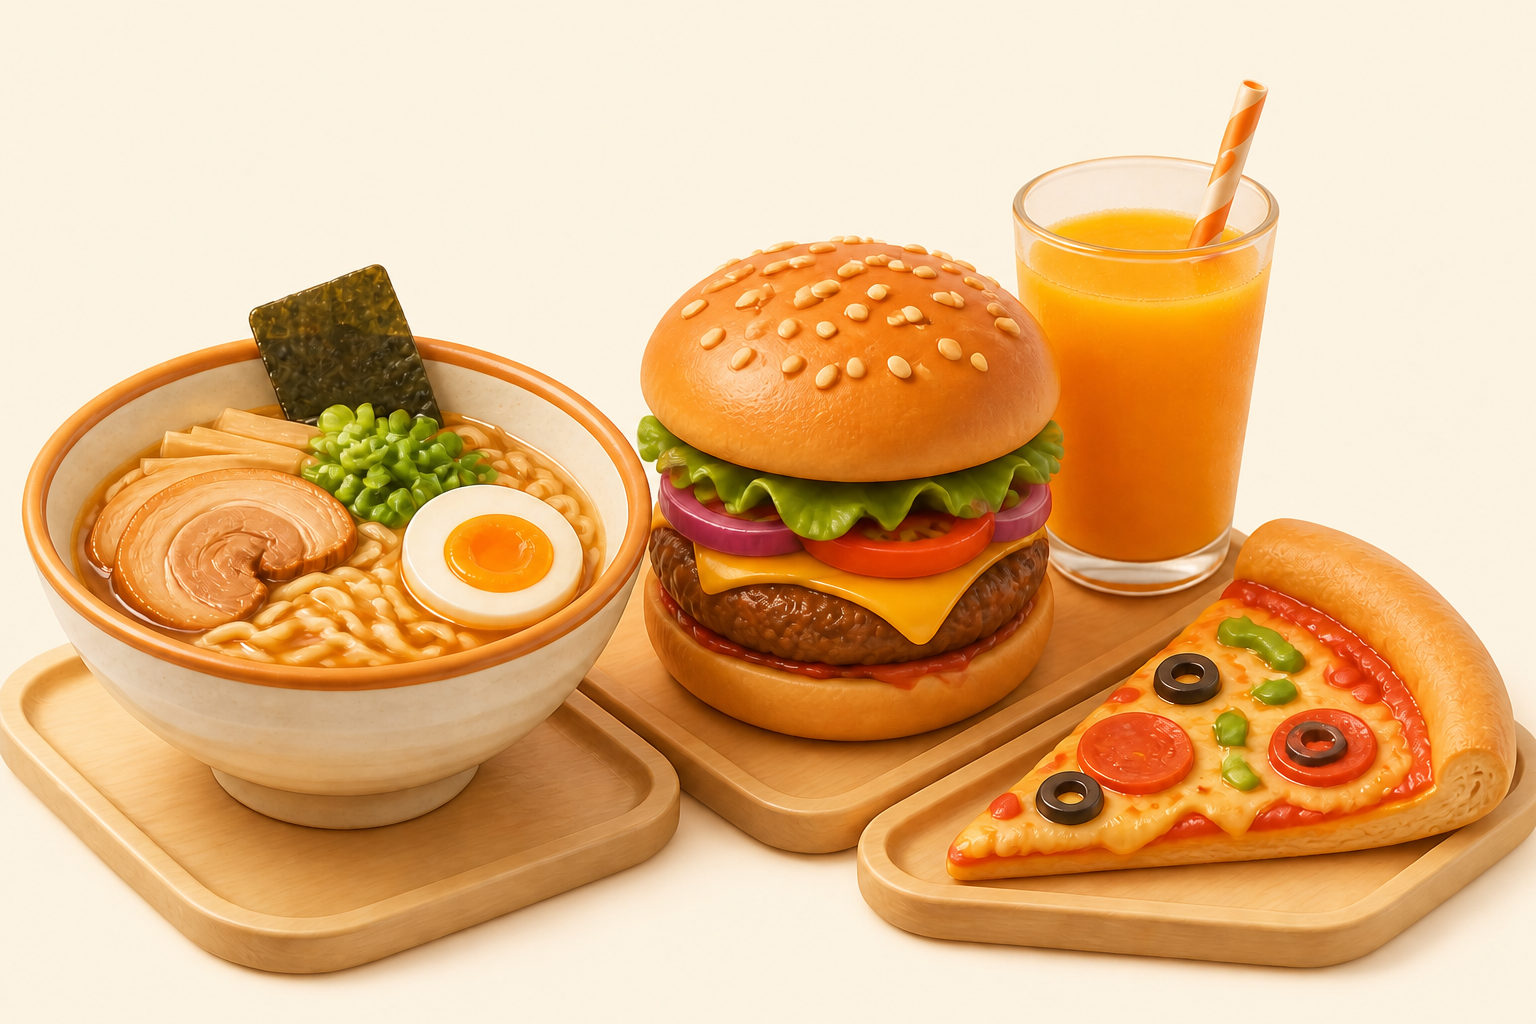
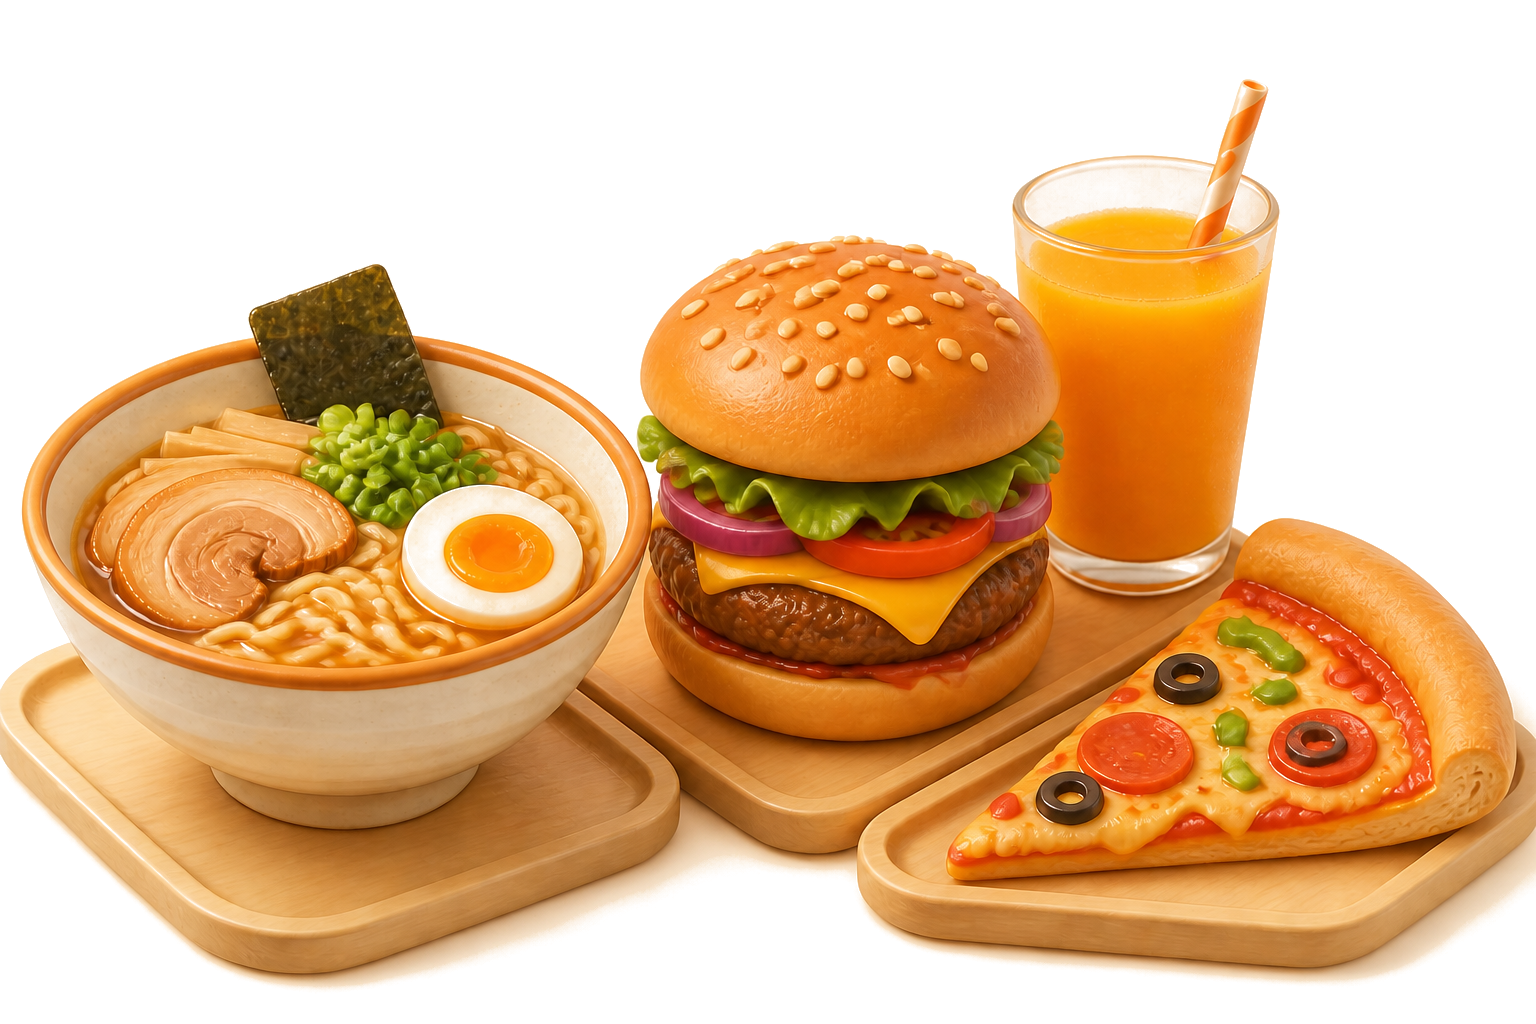
Refresh Couju presentation, data lifecycle, and documentation

diff --git a/app/globals.css b/app/globals.css
@@ -168,4 +168,4 @@ button:disabled{cursor:not-allowed;opacity:.55}
 .room-page .public-constraint{max-width:920px;background:transparent;box-shadow:none;border:0;padding:10px 4px}
 .room-page .public-constraint span{background:rgba(104,84,190,.08)}
 @media(max-width:900px){.room-page .room-grid{grid-template-columns:1fr}.room-page .room-main-card{padding:8px}.room-page .invite-card{margin-top:4px}}
-.home-choice-card>img{mix-blend-mode:normal;border-radius:0;-webkit-mask-image:radial-gradient(ellipse 84% 76% at 50% 54%,#000 58%,rgba(0,0,0,.82) 72%,transparent 100%);mask-image:radial-gradient(ellipse 84% 76% at 50% 54%,#000 58%,rgba(0,0,0,.82) 72%,transparent 100%)}
+.home-choice-card>img{mix-blend-mode:normal;border-radius:0}

diff --git a/README.md b/README.md
@@ -1,133 +1,86 @@
-# 凑局 Couju — AI Group Decision OS
+# 凑局 Couju
 
-> 不是替一个人猜你喜欢，而是帮助一群人找到真正可执行的交集。
+> 帮一群人从“都行”走到一个真正能执行的共同决定。
 
-[在线体验](https://couju-demo.quintinwei1314.chatgpt.site/) · [GitHub 仓库](https://github.com/QuintinWei/couju-group-decision-os) · 适配桌面端与移动端 H5
+[在线体验](https://couju-demo.quintinwei1314.chatgpt.site/) · [演示视频](https://github.com/user-attachments/assets/7b5fe9cf-3378-4757-99ac-128d2a0ed951)
 
-## 产品演示
+凑局是一款面向 2–6 人聚餐与活动场景的 AI 群体决策产品。它不只统计谁投了几票，而是把每个人的时间、位置、预算、通勤边界和真实反馈放进同一套决策流程，找到所有成员都能接受的唯一结果。
 
-https://github.com/user-attachments/assets/7b5fe9cf-3378-4757-99ac-128d2a0ed951
-
-
-## 这是什么
-
-凑局是一款面向 2–6 人聚餐与活动场景的 AI 群体决策产品。
-
-当朋友们的时间、位置、通勤上限、预算和兴趣不同时，普通投票只会统计票数；凑局会先找到所有成员都可接受的候选，再用公平算法选出一个结果，并解释为什么。
-
-它解决的不是“哪里评分最高”，而是：
-
-- 大家什么时候都有空；
-- 哪些地点每个人都能到达；
-- 哪些候选没有触碰任何人的底线；
-- 如果没有交集，分歧到底在哪里；
-- 下一轮应该如何根据全体反馈改变。
-
-## 当前产品闭环
+## 现在可以体验什么
 
 ```text
-创建房间 → 分享链接 → 全员加入
-→ 提交空闲时间与个人选择边界
-→ 生成多人共同可达的 12 张共享卡
-→ 每位成员独立选择喜欢 / 一般 / 不喜欢
-→ 有交集：FairMix 计算唯一群体最优解
-→ 无交集：AI 诊断分歧 + 每人 3 张私人发现卡
-→ 汇总成员提名、反馈学习与新类型探索
-→ 进入下一轮共享评选
-→ 锁定地点、打开地图或加入日历
+选择吃饭 / 玩乐 → 创建并分享房间 → 全员提交空闲时间和选择边界
+→ 生成 12 张多人共同可达卡片 → 独立评价 → 得到唯一结果
+→ 若没有交集：AI 解释分歧 → 每人查看 3 张私人发现卡并可提名 1 张
+→ 提名与学习后的新候选进入下一轮共享评价（最多 3 轮）
 ```
 
-私人发现卡不会直接成为结果。每个人最多提名一张，也可以跳过；提名进入下一轮后，仍需所有成员共同评价。
+- 支持上海、北京、广州、深圳、杭州、成都、南京、重庆、苏州、合肥；
+- 聚餐与玩乐两套候选体系，玩乐覆盖电影、攀岩、陶艺、KTV、剧本杀、麻将、按摩等类别；
+- 日期范围、上午 / 下午 / 晚上、预计时长与多人空闲时间交集；
+- 浏览器定位或手动输入地铁站、商圈；
+- 每位成员独立设置人均预算、单程通勤上限和场景偏好；
+- 高德真实 POI、地址、坐标、图片与地图跳转；
+- DeepSeek 群体反馈学习、冲突解释和结果解释；
+- 私人发现卡、成员提名、最多三轮共同决策；
+- 唯一群体结果、成员满意度和日历文件；
+- 公开房间链接、跨设备同步、桌面端与移动端 H5。
 
-## AI 在哪里
+## AI 不只是抽取字段
 
-凑局没有把最终决定交给大模型“凭感觉”生成。DeepSeek 和确定性算法各自负责适合自己的部分：
+DeepSeek 负责理解人类表达和群体反馈：
 
-| 能力 | 实现 | 作用 |
-|---|---|---|
-| 反馈理解 | DeepSeek + 安全降级 | 汇总群体喜欢、拒绝及原因，生成“AI 学到了什么” |
-| 冲突解释 | DeepSeek + 可复现诊断 | 在无交集时解释主要分歧，不伪造可行结果 |
-| 结果解释 | DeepSeek + 证据约束 | 将算法分数转成人能理解的推荐理由，无权改变名次 |
-| 可行性过滤 | 确定性规则 | 检查时间、预算、通勤和明确拒绝等边界 |
-| 群体排序 | FairMix | 结合最低满意度、Nash 福利、平均效用与 Pareto 前沿 |
+1. 将自然语言补充整理为可确认的偏好；
+2. 汇总一轮中“喜欢 / 一般 / 不喜欢”及拒绝原因，形成下一轮偏好变化；
+3. 在没有交集时解释主要冲突，并给出可验证的边界调整建议；
+4. 把最终算法结果解释成人能理解的推荐理由。
 
-DeepSeek 不负责创造餐厅、活动、价格或路线事实；地点候选来自高德，排序结果由代码计算。AI 服务异常时，产品会使用确定性总结继续运行，不会卡住多人流程。
+地点事实来自高德，硬约束过滤和最终名次由确定性代码完成。大模型不能创造餐厅、价格或位置，也不能绕过任何成员的预算与通勤底线。AI 接口不可用时，流程会使用规则总结继续运行。
 
-## 推荐不是“高分店排行榜”
+## 推荐与最终算分
 
-首轮候选会从不同类别中召回并去重，再根据每位成员自己的出发位置和通勤上限求共同可达范围。高德评分只作为地点质量参考，不直接决定最终结果。
+候选先按类别召回并去重，再检查每位成员的预算和通勤上限。只有满足所有成员硬边界的候选才能进入共同卡池。高德评分是质量参考，不是最终排名。
 
-进入排序前，系统会排除违反成员硬边界的候选。对剩余候选，FairMix 优先保护群体中满意度最低的人，再比较整体福利：
+对可行候选，FairMix 优先保护群体中体验最差的人，再比较整体福利：
 
 ```text
-存在最低满意度 ≥ 60 的候选：
+有候选的最低满意度 ≥ 60：
 Score = 0.35 × 最低满意度 + 0.55 × Nash 几何均值 + 0.10 × 平均满意度
 
 否则：
 Score = 0.65 × 最低满意度 + 0.25 × Nash 几何均值 + 0.10 × 平均满意度
 ```
 
-`Group Fit` 是当前房间内部的相对排序分，不代表成功概率。
+`Group Fit` 是当前房间内的相对排序分，不是成功概率。
 
-## 多轮反馈学习
+## 数据从哪里来、存在哪里
 
-- 每轮所有成员评价同一批 12 张共享卡。
-- 喜欢、一般、不喜欢及拒绝原因会改变下一轮候选构成。
-- 无共同结果时，每位成员可查看 3 张仅自己可见的私人发现卡。
-- 下一轮由成员提名、群体反馈学习和 4 张新类型探索组成。
-- 所有私人提名必须重新进入共享卡池，不能绕过群体评价。
-- 最多进行 3 轮；仍无解时展示冲突来源与可调整边界，不强行生成结果。
+- 地点候选：高德 Web 服务 API；不可用时会明确切换到演示候选；
+- AI 理解：DeepSeek 官方 API；
+- 房间、成员、时间范围、选择边界和轮次反馈：Cloudflare D1；
+- 成员身份：浏览器只保存当前设备的成员凭证，服务端仅保存凭证哈希；
+- 页面与接口：部署在 OpenAI Sites / Cloudflare Runtime。
 
-## 可交互能力
+当前通勤时间由成员与候选的坐标距离估算，不代表实时公交或驾车时间。高德 POI 也不等于实时可订、实时价格或实时营业状态。
 
-- 支持上海、北京、广州、深圳、杭州、成都、南京、重庆、苏州、合肥；
-- 聚餐与周末活动两套候选链路；
-- 日期范围、上午 / 下午 / 晚上、预计时长和多人空闲时间交集；
-- 浏览器定位或手动输入地铁站、商圈；
-- 每位成员独立设置预算、单程通勤上限和场景偏好；
-- 高德 POI、地址、坐标和地点图片；
-- 12 张共享卡、拒绝原因、私人发现与最多三轮反馈学习；
-- DeepSeek 群体反馈总结、冲突解释和最终推荐解释；
-- 唯一群体结果、成员满意度、地图跳转和 `.ics` 日历文件；
-- 可公开分享的持久化多人房间与跨设备同步；
-- 桌面端与移动端 H5 响应式体验。
+## 隐私边界
 
-## 数据边界
-
-- 配置 `AMAP_WEB_SERVICE_KEY` 时使用高德真实 POI；接口不可用时切换到明确标识的演示候选。
-- 高德地点信息不等于实时可订、实时价格或实时营业状态，行动前仍需确认。
-- 当前通勤使用成员坐标与候选坐标估算，尚未接入实时公交 / 驾车路线矩阵。
-- 当前未接入美团、大众点评及商户订座接口。
-- DeepSeek 只接收完成任务所需的聚合信息；AI 结果不能绕过确定性硬约束。
-
-## 隐私设计
-
-- 无需注册，通过随机房间号和设备成员令牌参与；
-- 仅凭房间号看不到成员昵称、出发地和私人选择；
-- 其他成员只能看到私人发现是否完成及匿名提名总数，看不到私人卡内容；
-- 系统定位仅在用户主动点击并授权后调用；
-- 服务端只保存成员令牌哈希，AI 接口调用前验证成员身份。
-
-## 技术栈
-
-- Next.js / React 19 / TypeScript
-- Vinext + Cloudflare Runtime
-- Cloudflare D1 多人房间持久化
-- DeepSeek Chat Completions JSON Output
-- 高德地点搜索与地理编码
-- 原生 CSS 响应式界面
-- Node Test + production build verification
+- 无需注册，通过随机房间号和设备成员凭证参与；
+- 只知道房间号无法读取成员昵称、出发地与私人选择；
+- 私人发现卡只有本人可见，其他成员只看到匿名提名数量；
+- 系统定位只在用户主动点击并授权后触发；
+- 发送给 DeepSeek 的内容会先去除昵称、具体出发地和成员凭证。
 
 ## 本地运行
 
-要求 Node.js `>= 22.13.0`。
+Node.js `>= 22.13.0`：
 
 ```bash
 npm install
 npm run dev
 ```
 
-可选服务端环境变量：
+环境变量：
 
 ```text
 DEEPSEEK_API_KEY=
@@ -137,28 +90,21 @@ DEEPSEEK_TIMEOUT_MS=45000
 AMAP_WEB_SERVICE_KEY=
 ```
 
-验证项目：
+验证：
 
 ```bash
 npm test
+npm run build
 ```
 
-## 核心目录
+## 技术结构
 
-```text
-app/page.tsx            产品交互与多人决策流程
-app/api/candidates/     高德候选召回与演示回退
-app/api/rooms/          房间创建、加入和同步
-app/api/members/        成员时间、边界与评价提交
-app/api/rounds/         私人发现与多轮候选生成
-app/api/insights/       DeepSeek 群体反馈和冲突总结
-app/api/explain/        最终结果解释
-lib/couju.ts            候选模型与 FairMix 排序
-lib/rounds.ts           反馈学习、轮次组成与冲突诊断
-db/                     Cloudflare D1 Schema
-tests/                  核心流程与回归测试
-```
+- Next.js / React 19 / TypeScript
+- Vinext + Cloudflare Runtime
+- Cloudflare D1
+- DeepSeek Chat Completions JSON Output
+- 高德地理编码与地点搜索
+- 原生 CSS 响应式界面
+- Node Test 回归测试
 
-## 当前状态
-
-这是一个可公开体验的多人 AI 产品 Demo，已经接入真实房间、DeepSeek 和高德服务，并为外部接口失败保留完整演示回退。项目重点验证的是：AI 如何理解群体反馈，以及如何与可测试、可复现的公平决策算法协作。
+这是一个公开可体验的 AI 产品 Demo。它重点验证：AI 如何理解多人反馈，并与可测试、可复现的公平决策算法协作。
